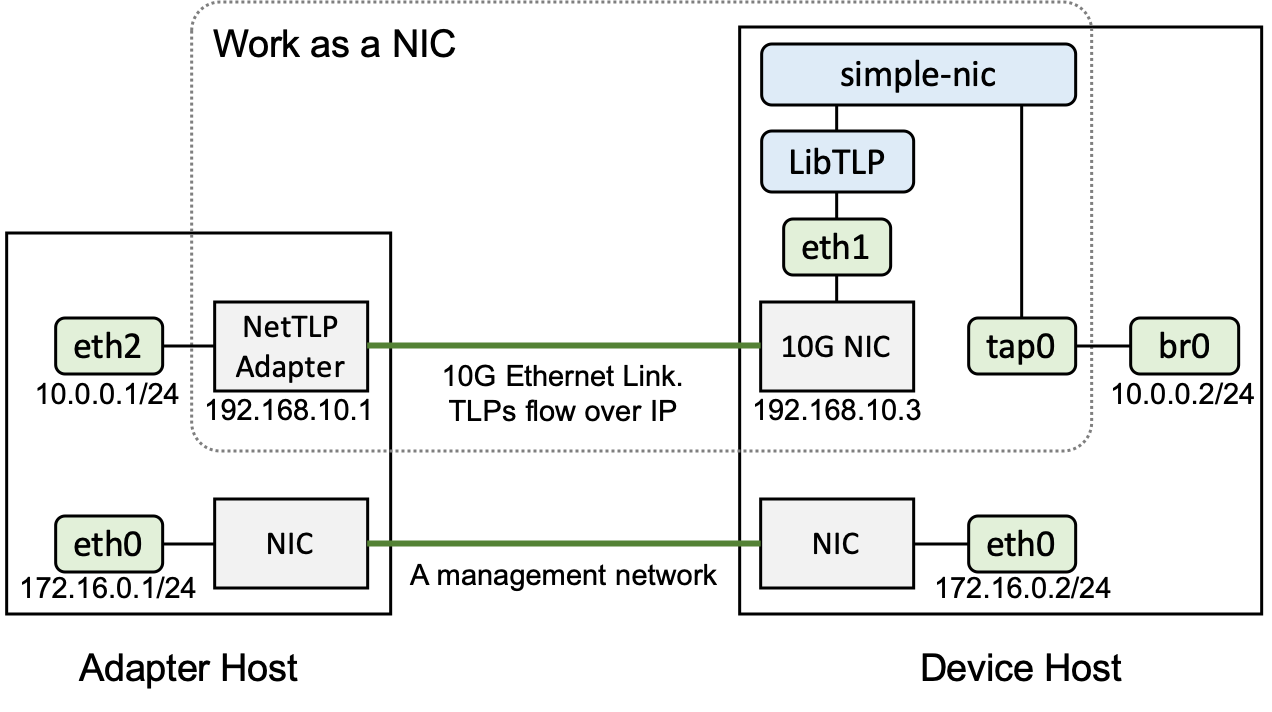
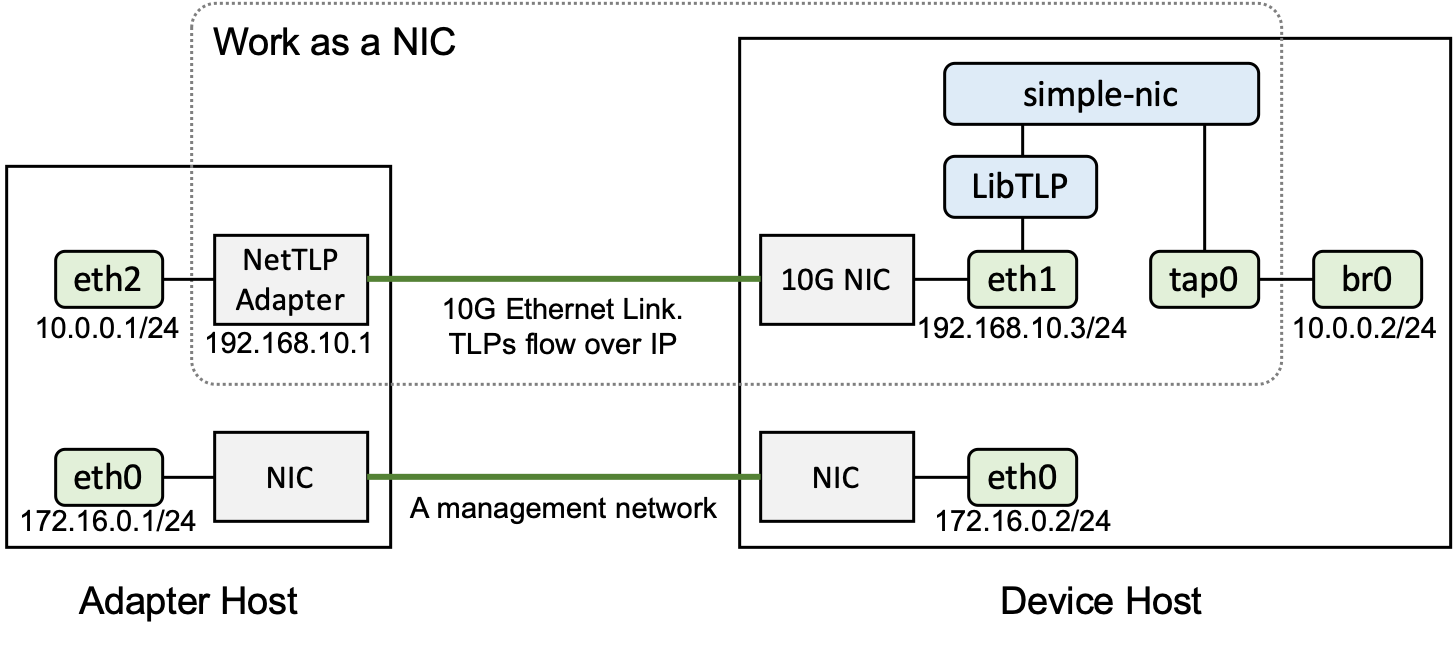
it is difficulut to write the how to of the simple nic

Changed region(s): [[0.0, 0.0, 1.0, 0.8682], [0.6745, 0.8992, 0.8892, 0.9612], [0.0613, 0.8992, 0.2453, 0.9612]]

diff --git a/nettlp/nonexistent_nic.html b/nettlp/nonexistent_nic.html
@@ -57,11 +57,81 @@
 	  work</a>.
 	</p>
 
+	<p> The simple NIC implementation is composed of two
+	  components: (1) a device driver for the NetTLP adapter and
+	  (2) the software device implementation for simple NIC using
+	  LibTLP. The driver treats the NetTLP adapter as an physical
+	  Ethernet NIC and create a netdevice interface (like usual
+	  Ethrenet interfaces in Linux as ifconfig command
+	  shows). Packets transmitted to the interface are delivered
+	  to the device host as TLPs over the PCIe links between the
+	  root complex and the NetTLP adapter, and the Ethernet link
+	  between the adapter host and device host. The simple NIC
+	  implementation receives the TLPs using LibTLP and send the
+	  packets to a tap interface.
+	</p>
+
         <div class="img">
           <a href="fig/simple-nic-setup.png">
 	    <img src="fig/simple-nic-setup.png"/></a>
-          <p>Figure 1: Overview of an environment to run simple NIC.</p>
+          <p>Figure 1: Overview of an environment to run the simple NIC.</p>
         </div>
+
+	<p>
+	  Figure 1 shows an exmaple setup of the simple NIC. Descriptions
+	  of network interfaces in the figure are:
+	</p>
+
+	<ul>
+	  <li>Adapter Host</li>
+	  <ul>
+	    <li>
+	      eth0: just a management network. A requirement is the
+	      adapter host must be able to communicate with the device
+	      host via this link.
+	    </li>
+	    <li>
+	      eth2: netdevice interface for the simple NIC. The simple
+	      NIC driver for the NetTLP adapter creates this
+	      interface. Packets to eth2 are deliverred to the device
+	      host by encapsulating TLPs in Ethernet via the 10G
+	      Ethernet link between the adapter and the device host.
+	    </li>
+	  </ul>
+	  <li>Device Host</li>
+	  <ul>
+	    <li>
+	      eth0: just a management network. A requirement is the
+	      device host must be able to communicate with the adapter
+	      host via this link.
+	    </li>
+	    <li>
+	      eth1: a netdevice interface to receive and send TLPs
+	      with the NetTLP adapter. It is eth1 in the <a href="setup.html">
+		setup instruction</a>.
+	    </li>
+	    <li>
+	      tap0: the actual ethernet port of the simple NIC. the
+	      simple NIC process on the device host creates this tap
+	      interface. Packets transmitted to the eth2 (the NetTLP
+	      adapter) on the device host are transmitted to this tap
+	      interface on the device host. As well as transmission,
+	      packets received by the tap0 are received by eth2 on the
+	      adapter host.
+	    </li>
+	    <li>
+	      br0: just a target interface to send ping. The tap0 is
+	      enslaved by the br0. As a result, packets transmitted to
+	      the eth2 on the adapter host are transmitted to the tap0
+	      and received by the br0. This means that we can ping
+	      between the eth2 on the adapter host (10.0.0.1) and br0
+	      on the device host (10.0.0.2).
+	    </li>
+	  </ul>
+	</ul>
+
+
+
       </section>
 
     </main>
